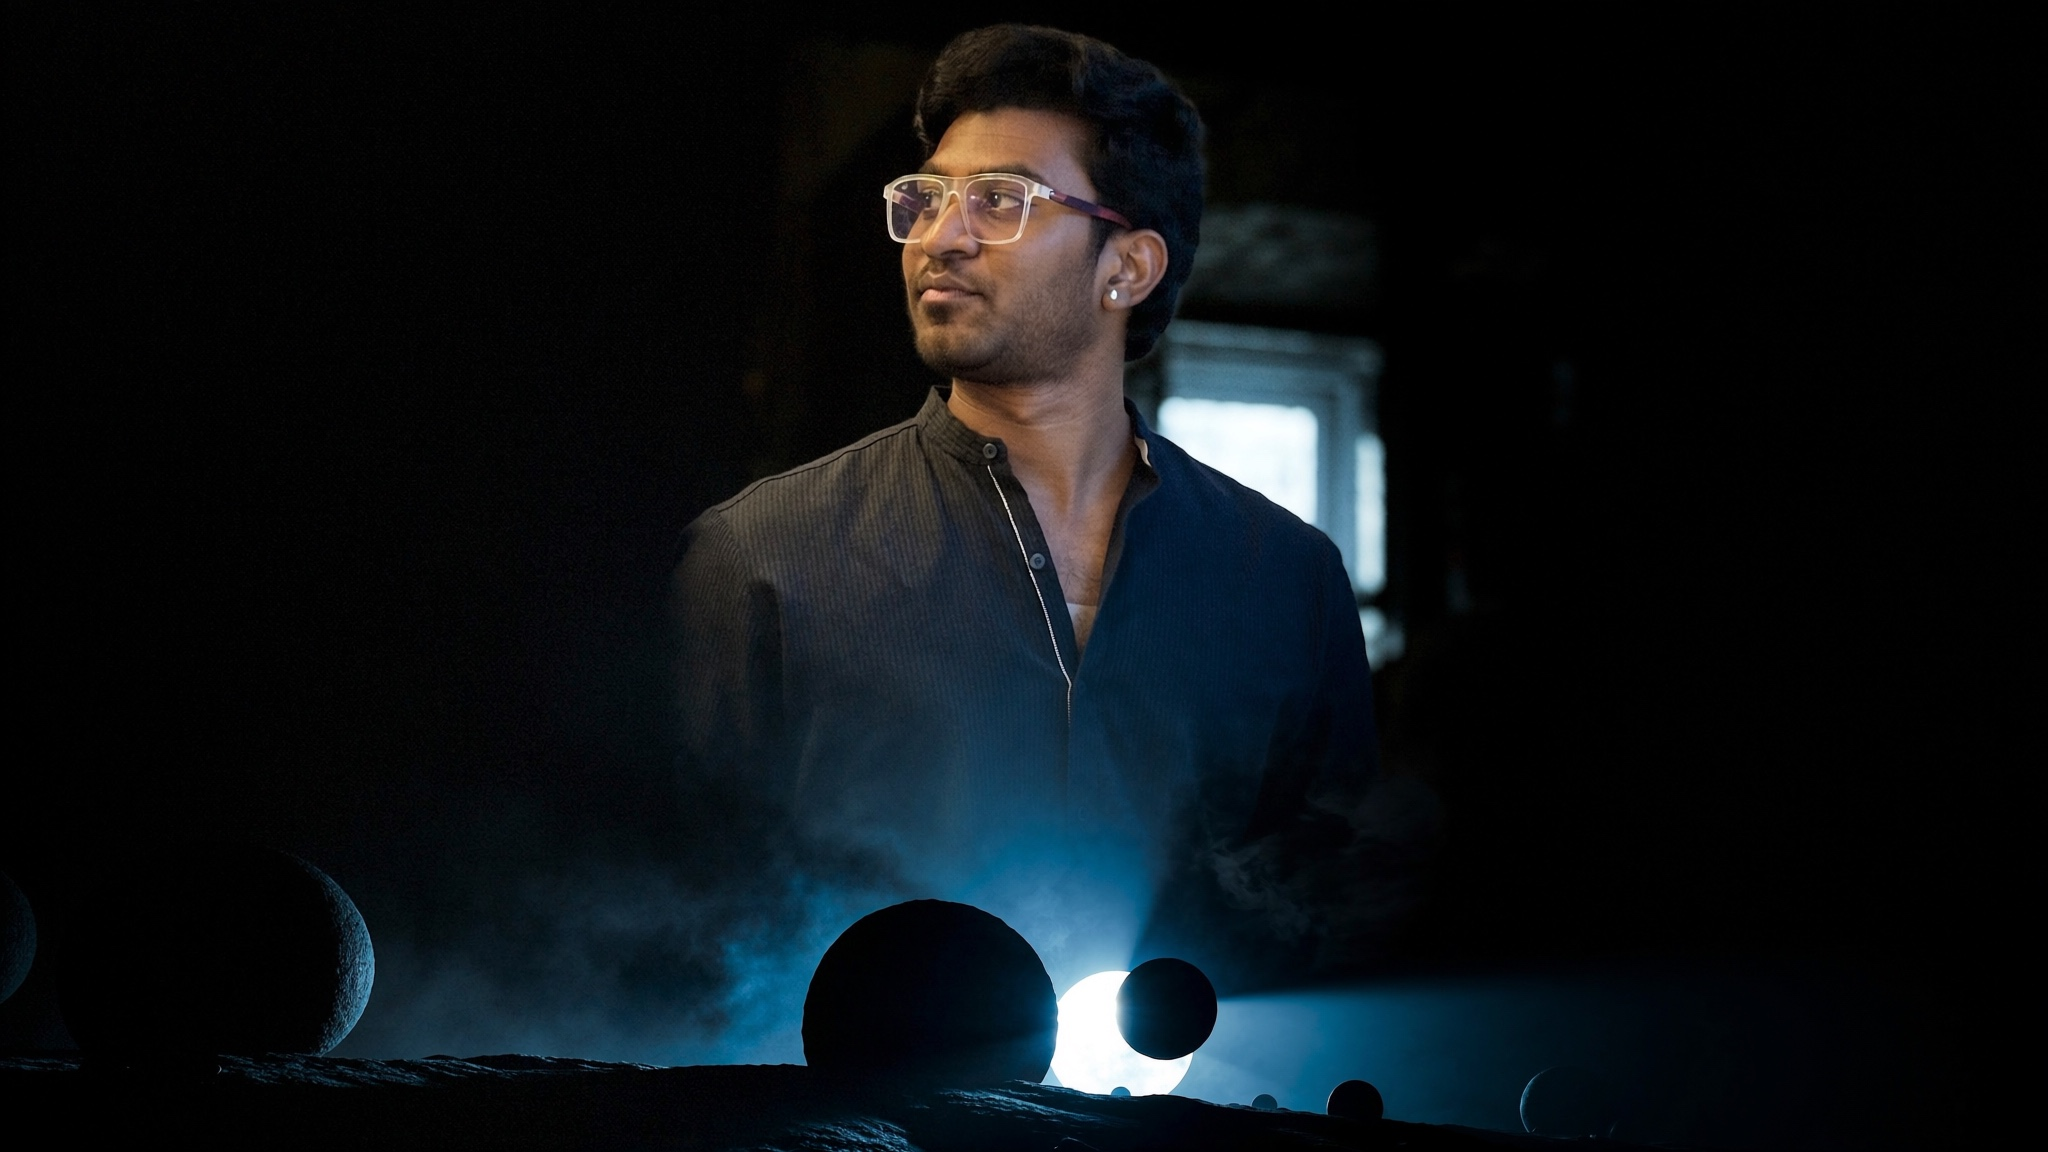
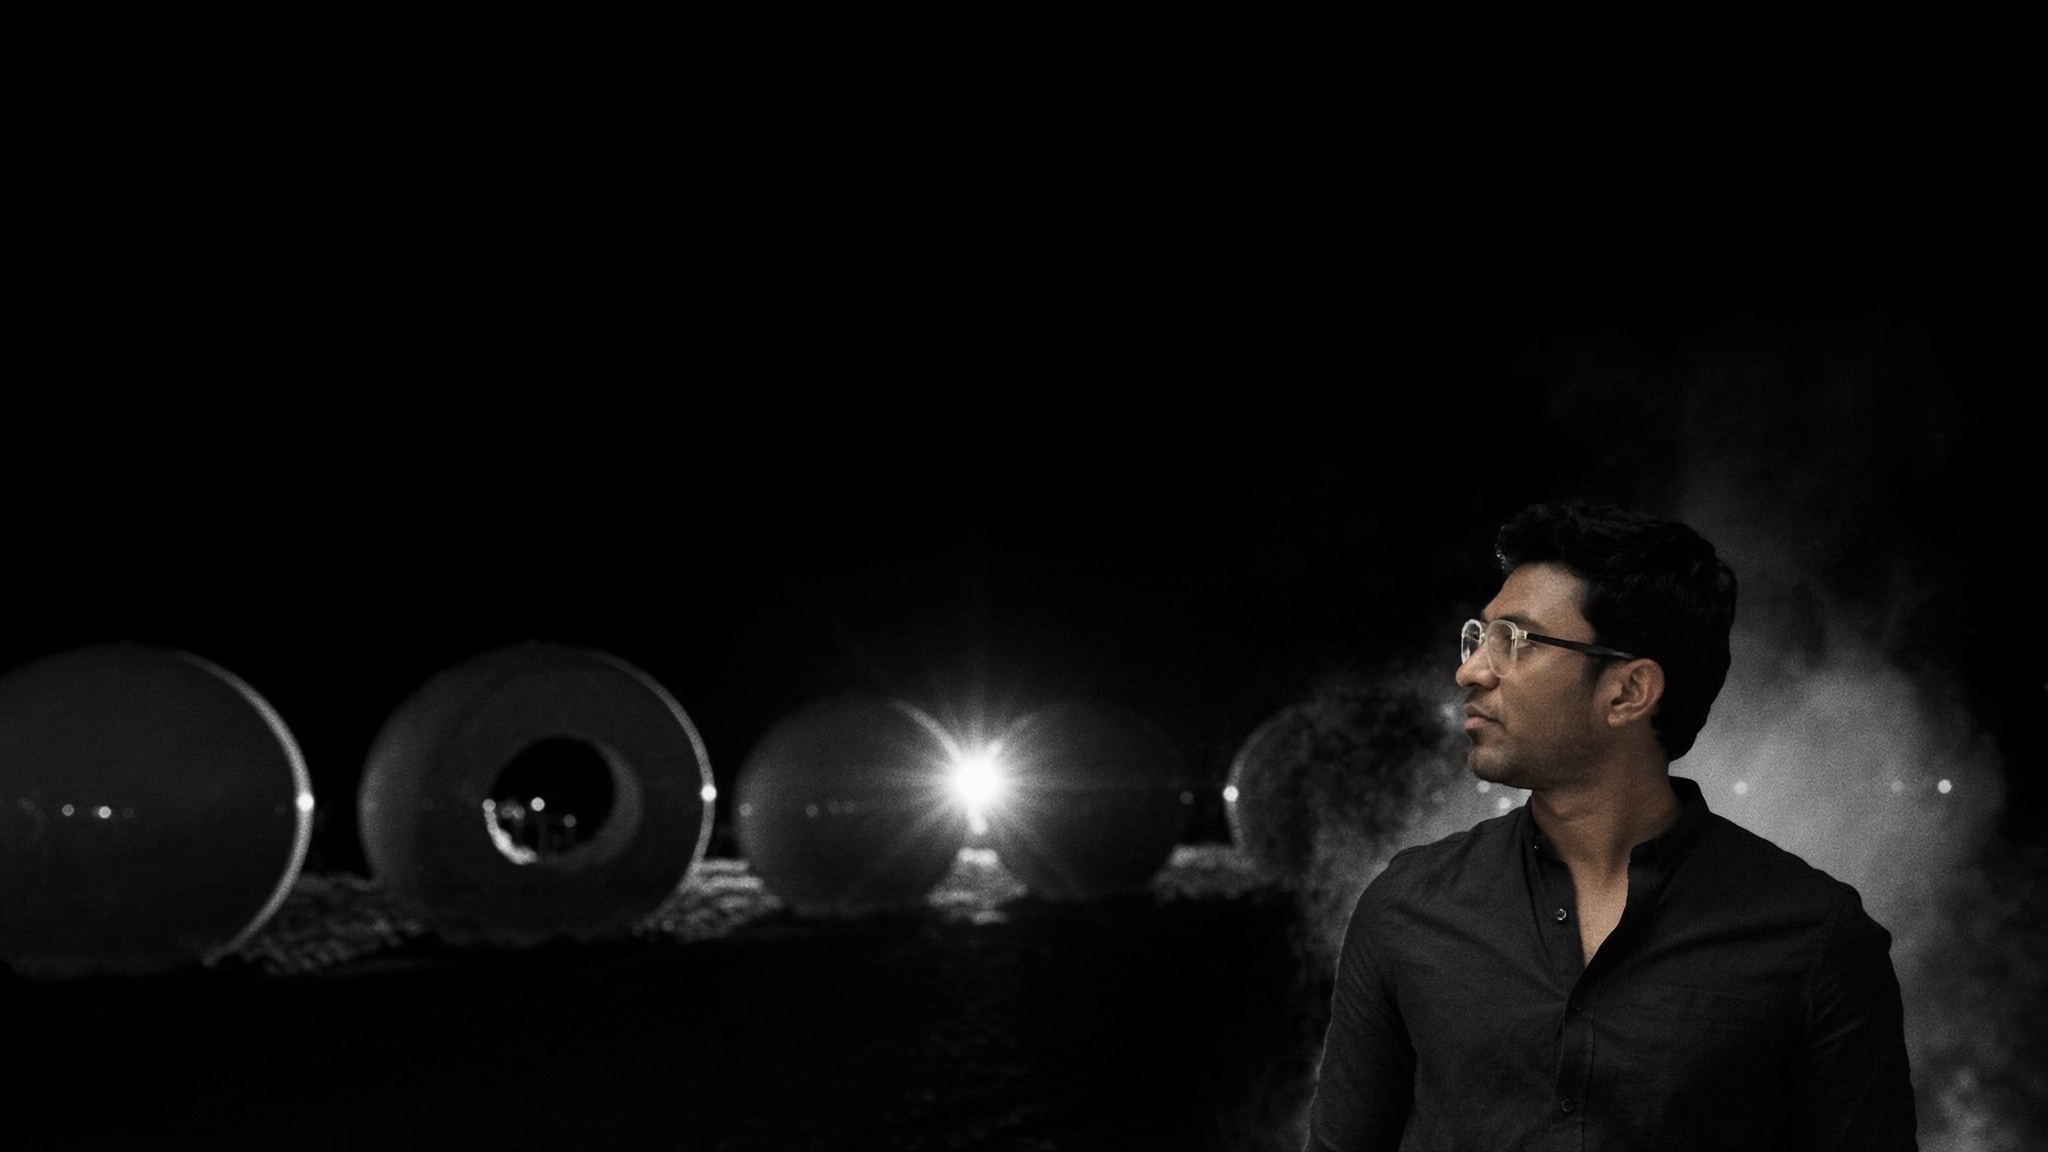
feat(share): og card v16 — monochrome, and he crosses to the right
New Soul Cinema plate per the brief: pure black-and-white, Bhanu in the
right third facing left toward his name, the eclipse starburst breaking
between the blurred orbs mid-frame, mist over his shoulder. CSS grayscale
guards the monochrome; type and pills unchanged on the left.

diff --git a/og-image.html b/og-image.html
@@ -23,9 +23,12 @@
       color: #EFF3F8;
     }
 
-    /* the plate — the whole scene, photographed */
+    /* the plate — the whole scene, photographed; grayscale guarantees pure B&W */
     .plate { position: absolute; inset: 0; }
-    .plate img { width: 1200px; height: 675px; object-fit: cover; object-position: 50% 42%; }
+    .plate img {
+      width: 1200px; height: 675px; object-fit: cover; object-position: 50% 58%;
+      filter: grayscale(1) contrast(1.05);
+    }
 
     /* a breath of darkness behind the type column */
     .scrim {
